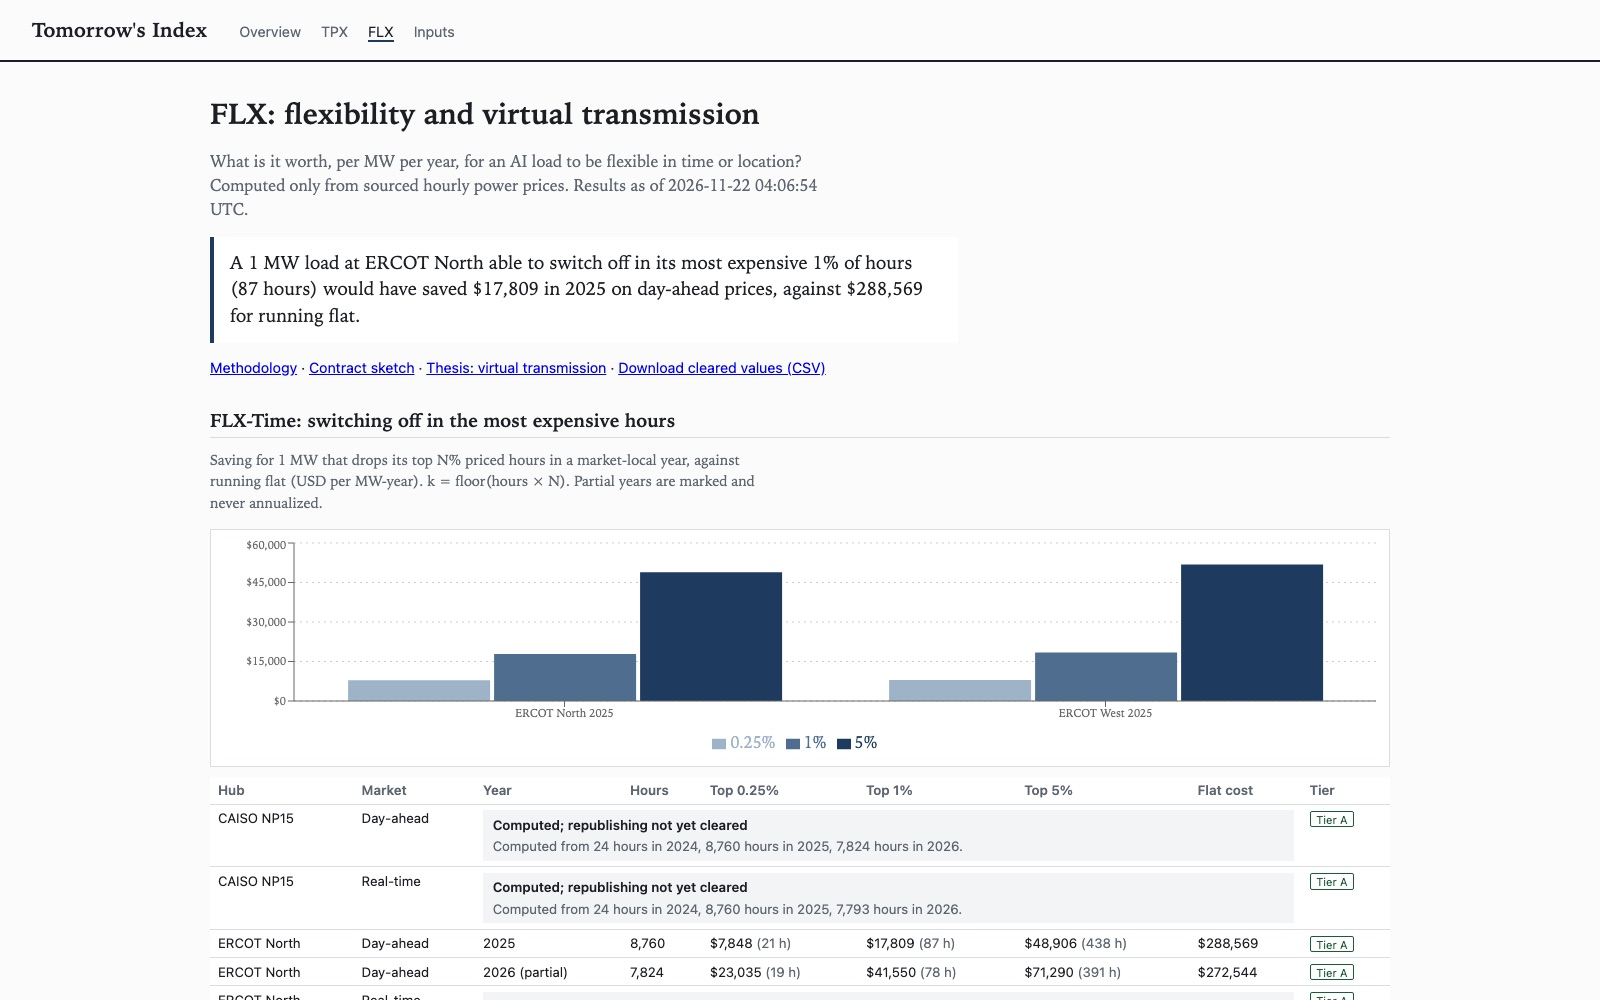
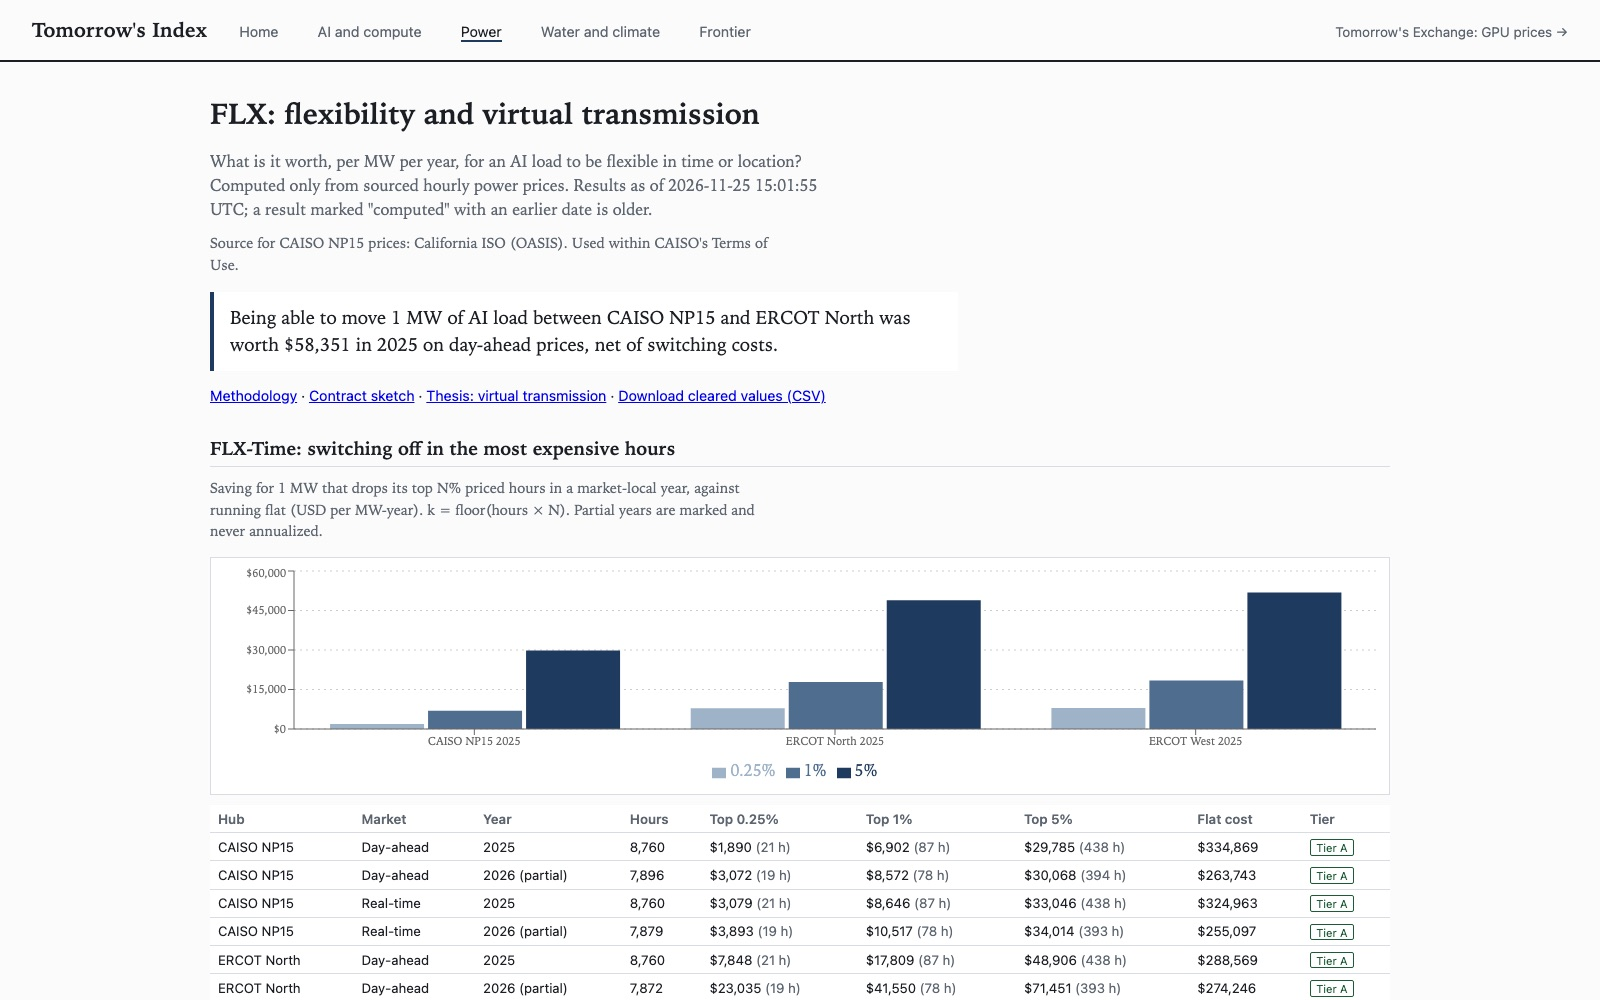
Portfolio: lead Tomorrow's Index with the $58,351 FLX headline
Section 06 now leads FLX with the CAISO vs ERCOT location value (2025,
day-ahead, net of switching costs), notes CAISO's written clearing for
derived statistics and the daily refresh, and drops the stale 'next'
line. FLX screenshot retaken from the live site.

diff --git a/work/tomorrows-exchange.html b/work/tomorrows-exchange.html
@@ -51,7 +51,7 @@
 <section class="psec rv"><div class="psec-cols"><div class="psec-text"><h2><i>03</i>Hedging both sides</h2><p><b>Buyer.</b> A lab planning a training run enters the model size, tokens, chip, GPU count and utilization. Training compute is six times parameters times tokens; dividing by what the chip actually delivers gives GPU-hours. A 70-billion-parameter model on 2 trillion tokens with 1,024 H100s is about 590,000 GPU-hours, $1.53 million at the forward curve. A cap at today's forward price costs about $88,000, under 6% of the run.</p><p><b>The first problem is quantity, not price.</b> Utilization is the weakest input: the same run costs $3.05 million at 20% and $1.02 million at 60%. Before hedging price, a buyer has to pin down how many GPU-hours they are hedging.</p><p><b>Seller.</b> A neocloud enters its fleet, utilization and how much is already contracted. Only the uncontracted hours are exposed. For 2,000 H100s with 60% contracted, a 30% price fall takes $4.4 million off a year's floating revenue; a floor 10% below the forward costs about $1.15 million and keeps the upside.</p><p><b>A detail that matters.</b> NVIDIA quotes Tensor Core throughput "with sparsity". The dense figure, which training actually reaches, is half. Using the headline number would understate every GPU-hour estimate by a factor of two. Every chip figure on the platform cites the NVIDIA datasheet it came from.</p></div><div class="figs"><figure class="fig rv"><button type="button" class="zoom" data-cap="Cost of one training run at three utilization assumptions, and the cost of capping the middle case." aria-label="Enlarge figure"><svg class="fg" viewBox="0 0 900 380" xmlns="http://www.w3.org/2000/svg" role="img" aria-label="One training run, three budgets" preserveAspectRatio="xMidYMid meet"><text class="mid" x="70.0" y="62.0">One training run, three budgets</text><text class="cl" x="70.0" y="133.2">20% utilization</text><rect class="bg" x="330.0" y="102.0" width="390.8" height="48"/><text class="cl v" x="734.8" y="133.2">$3.05M</text><text class="cl" x="70.0" y="195.2">40% utilization</text><rect class="bg" x="330.0" y="164.0" width="196.0" height="48"/><text class="cl v" x="540.0" y="195.2">$1.53M</text><text class="cl" x="70.0" y="257.2">60% utilization</text><rect class="bg" x="330.0" y="226.0" width="130.7" height="48"/><text class="cl v" x="474.7" y="257.2">$1.02M</text><text class="cl" x="70.0" y="319.2">Cap on the 40% case</text><rect class="ba" x="330.0" y="288.0" width="11.3" height="48"/><text class="cl v" x="355.3" y="319.2">$88k</text></svg></button><figcaption>Cost of one training run at three utilization assumptions, and the cost of capping the middle case.</figcaption></figure><figure class="fig wide rv shot"><a href="https://a-i-g-v-b-s-v.github.io/compute-markets-lab/" rel="noopener" aria-label="Open the platform"><img src="../assets/img/tomorrows-exchange/calculator.jpg" alt="The hedge calculator" loading="lazy" style="width:100%;height:auto;display:block;border-radius:10px;border:1px solid rgba(0,0,0,.08)"></a><figcaption>The calculator in buyer mode: the payoff of a forward and a cap against where prices settle.</figcaption></figure></div></div></section>
 <section class="psec rv"><div class="psec-cols"><div class="psec-text"><h2><i>04</i>Financing the hardware</h2><p><b>The lender's question.</b> Neoclouds finance GPU fleets with loans secured on the GPUs and repaid from renting them out. The model runs such a loan month by month: rental price, cash after operating costs, the loan payment, coverage, and the GPUs' value against the balance.</p><p><b>The event that breaks it.</b> When AWS launched B200 instances in May 2025, it cut its H100 prices 44% a month later. Put that step into a four-year, $28 million loan on 1,000 H100s and the loan breaches its loan-to-value covenant in the same month, while the borrower is still paying. A put floor on half the hours removes the cash shortfall, but not the covenant breach: the hedge has to be sized to the covenant, not only the cash.</p><p><b>What the data said.</b> I collected every dated list price I could find from archived pricing pages. They did not decay smoothly: Lambda's H100 went from $2.59 in 2023 to $4.59 today. Real declines come as discrete cuts. Meanwhile the largest owners depreciate GPUs over five to six years in their filings, while a new NVIDIA generation arrives about every two. That gap is the risk a lender is pricing.</p></div><div class="figs"><figure class="fig rv"><button type="button" class="zoom" data-cap="Month of the first covenant breach, by scenario, for a $28M loan on 1,000 H100s." aria-label="Enlarge figure"><svg class="fg" viewBox="0 0 900 380" xmlns="http://www.w3.org/2000/svg" role="img" aria-label="Months until the loan breaks its covenants" preserveAspectRatio="xMidYMid meet"><text class="mid" x="70.0" y="62.0">Months until the loan breaks its covenants</text><text class="cl" x="70.0" y="133.2">Base case: none in 48</text><rect class="bg" x="360.0" y="102.0" width="380.0" height="48"/><text class="cl v" x="754.0" y="133.2">no breach</text><text class="cl" x="70.0" y="195.2">Utilization −30%</text><rect class="bg" x="360.0" y="164.0" width="364.2" height="48"/><text class="cl v" x="738.2" y="195.2">month 46</text><text class="cl" x="70.0" y="257.2">Next generation (−44%)</text><rect class="ba" x="360.0" y="226.0" width="95.0" height="48"/><text class="cl v" x="469.0" y="257.2">month 12</text><text class="cl" x="70.0" y="319.2">Prices −30% at once</text><rect class="ba" x="360.0" y="288.0" width="7.9" height="48"/><text class="cl v" x="381.9" y="319.2">month 1</text></svg></button><figcaption>Month of the first covenant breach, by scenario, for a $28M loan on 1,000 H100s.</figcaption></figure><figure class="fig rv"><button type="button" class="zoom" data-cap="Lambda&#x27;s H100 on-demand list price from archived pricing pages, 2023 to 2026." aria-label="Enlarge figure"><svg class="fg" viewBox="0 0 900 430" xmlns="http://www.w3.org/2000/svg" role="img" aria-label="Lambda H100 list price, 2023 to 2026" preserveAspectRatio="xMidYMid meet"><text class="mid" x="70.0" y="62.0">List prices did not fall: Lambda H100, $/GPU-hour</text><line class="gl2" x1="120" y1="380.0" x2="860" y2="380.0"/><text class="ax" x="106" y="384.0" text-anchor="end">$0</text><line class="gl2" x1="120" y1="326.0" x2="860" y2="326.0"/><text class="ax" x="106" y="330.0" text-anchor="end">$1</text><line class="gl2" x1="120" y1="272.0" x2="860" y2="272.0"/><text class="ax" x="106" y="276.0" text-anchor="end">$2</text><line class="gl2" x1="120" y1="218.0" x2="860" y2="218.0"/><text class="ax" x="106" y="222.0" text-anchor="end">$3</text><line class="gl2" x1="120" y1="164.0" x2="860" y2="164.0"/><text class="ax" x="106" y="168.0" text-anchor="end">$4</text><line class="gl2" x1="120" y1="110.0" x2="860" y2="110.0"/><text class="ax" x="106" y="114.0" text-anchor="end">$5</text><text class="ax" x="260.0" y="406" text-anchor="middle">2024</text><text class="ax" x="460.0" y="406" text-anchor="middle">2025</text><text class="ax" x="660.0" y="406" text-anchor="middle">2026</text><path class="la" d="M143.3,250.4 L210.0,240.1 L260.0,240.1 L360.0,191.5 L393.3,218.5 L493.3,218.5 L626.7,218.5 L826.7,132.1"/><circle cx="143.3" cy="250.4" r="4" style="fill:var(--accent)"/><circle cx="210.0" cy="240.1" r="4" style="fill:var(--accent)"/><circle cx="260.0" cy="240.1" r="4" style="fill:var(--accent)"/><circle cx="360.0" cy="191.5" r="4" style="fill:var(--accent)"/><circle cx="393.3" cy="218.5" r="4" style="fill:var(--accent)"/><circle cx="493.3" cy="218.5" r="4" style="fill:var(--accent)"/><circle cx="626.7" cy="218.5" r="4" style="fill:var(--accent)"/><circle cx="826.7" cy="132.1" r="4" style="fill:var(--accent)"/><text class="mono" x="818.7" y="118.1" text-anchor="end">$4.59 today</text><text class="mono" x="210.0" y="266.1">$2.59, Oct 2023</text></svg></button><figcaption>Lambda&#x27;s H100 on-demand list price from archived pricing pages, 2023 to 2026.</figcaption></figure><figure class="fig wide rv shot"><a href="https://a-i-g-v-b-s-v.github.io/compute-markets-lab/" rel="noopener" aria-label="Open the platform"><img src="../assets/img/tomorrows-exchange/collateral.jpg" alt="The collateral model" loading="lazy" style="width:100%;height:auto;display:block;border-radius:10px;border:1px solid rgba(0,0,0,.08)"></a><figcaption>The collateral model: coverage by month under each stress, with and without a floor.</figcaption></figure></div></div></section>
 <section class="psec rv"><div class="psec-cols"><div class="psec-text"><h2><i>05</i>The next market: memory</h2><p><b>HBM has no price.</b> The memory stacked beside every accelerator is made by three companies and sold on negotiated multi-year contracts; SK hynix says its volumes are sold out through 2029, and prices are set once a year. There is no spot market to observe. That is a finding, not a gap.</p><p><b>DRAM does.</b> Commodity DRAM trades daily and competes with HBM for the same wafers. The platform sets out a DRAM spot index design, and the case for a memory hedge: memory is now about a third of a PC's cost and tied to billions of hyperscaler capex, and nobody hedges it financially yet.</p><p><b>Asked, not scraped.</b> The only free daily DRAM prices come from one source whose terms require written consent to publish. So the index design is public, and the permission request has gone first.</p></div><div class="figs"><figure class="fig rv"><button type="button" class="zoom" data-cap="Commodity DRAM has a daily spot price. HBM has none, anywhere public." aria-label="Enlarge figure"><svg class="fg" viewBox="0 0 900 380" xmlns="http://www.w3.org/2000/svg" role="img" aria-label="Which memory has a public price" preserveAspectRatio="xMidYMid meet"><text class="mid" x="70.0" y="62.0">Which memory has a public price</text><text class="cl" x="70.0" y="133.2">DDR5 16Gb</text><rect class="bg" x="300.0" y="102.0" width="440.0" height="48"/><text class="cl v" x="754.0" y="133.2">daily spot</text><text class="cl" x="70.0" y="195.2">DDR4 16Gb</text><rect class="bg" x="300.0" y="164.0" width="440.0" height="48"/><text class="cl v" x="754.0" y="195.2">daily spot</text><text class="cl" x="70.0" y="257.2">DDR4 8Gb</text><rect class="bg" x="300.0" y="226.0" width="440.0" height="48"/><text class="cl v" x="754.0" y="257.2">daily spot</text><text class="cl" x="70.0" y="319.2">HBM</text><rect class="ba" x="300.0" y="288.0" width="5.3" height="48"/><text class="cl v" x="319.3" y="319.2">none</text></svg></button><figcaption>Commodity DRAM has a daily spot price. HBM has none, anywhere public.</figcaption></figure></div></div></section>
-<section class="psec rv"><div class="psec-cols"><div class="psec-text"><h2><i>06</i>Part two: Tomorrow&#x27;s Index</h2><p><b>After compute, the bottlenecks.</b> GPUs now have a price. What limits the AI build-out next mostly does not: how long it takes to get power, what a flexible load is worth, what a grade of model intelligence costs. Tomorrow&#x27;s Index is a family of research benchmarks for those, built on the same rules as the exchange: every value sourced, timestamped and checked against its publisher&#x27;s terms.</p><p><b>FLX, flexibility.</b> What a megawatt of AI load saves by switching off in the most expensive hours, from hourly ERCOT prices. In 2025 a 1 MW load at ERCOT North that stopped for its priciest 87 hours would have saved $17,809, against $288,569 for running flat.</p><p><b>TPX, time to power.</b> Turbine deals, manufacturer backlogs and grid queues. Completed gas projects in PJM took a median 2.77 years from interconnection request to operation (373 projects, Berkeley Lab).</p><p><b>Only what may be published.</b> Results from grid operators whose terms don&#x27;t yet allow republishing are computed but withheld, and the page says so. Intelligence grades are next.</p><p style="margin-top:1rem"><a class="btn" href="https://a-i-g-v-b-s-v.github.io/compute-markets-lab/tmrw/" rel="noopener">Open Tomorrow&#x27;s Index ↗</a></p></div><div class="figs"><figure class="fig wide rv shot"><a href="https://a-i-g-v-b-s-v.github.io/compute-markets-lab/tmrw/#/flx" rel="noopener" aria-label="Open Tomorrow&#x27;s Index"><img src="../assets/img/tomorrows-exchange/index-flx.jpg" alt="The FLX page of Tomorrow&#x27;s Index" loading="lazy" style="width:100%;height:auto;display:block;border-radius:10px;border:1px solid rgba(0,0,0,.08)"></a><figcaption>FLX: the saving from switching off in the most expensive hours, by hub and year.</figcaption></figure><figure class="fig wide rv shot"><a href="https://a-i-g-v-b-s-v.github.io/compute-markets-lab/tmrw/#/tpx" rel="noopener" aria-label="Open Tomorrow&#x27;s Index"><img src="../assets/img/tomorrows-exchange/index-tpx.jpg" alt="The TPX page of Tomorrow&#x27;s Index" loading="lazy" style="width:100%;height:auto;display:block;border-radius:10px;border:1px solid rgba(0,0,0,.08)"></a><figcaption>TPX: every disclosed turbine deal, with its source and confidence tier.</figcaption></figure></div></div></section><section class="psec psec-solo rv"><div class="psec-cols"><div class="psec-text"><h2><i>07</i>How I built it</h2><ul><li><b>Collector.</b> Python, run by GitHub Actions about every 30 minutes. Each source is a small module that turns a provider's format into the same quote record. AWS publishes a 300 MB price file per region, so the collector checks a 19 KB index and downloads a file only when AWS publishes a new version.</li><li><b>Data in the open.</b> Every quote, eligible or not, is committed to the repository with its source and read time. The index is rebuilt from those files every run, so anyone can reproduce any number.</li><li><b>Finance library.</b> Black-76, forward-curve interpolation, monthly hedge strips and the loan model live in one Python package with 105 tests, including a textbook option value, put-call parity and a standard annuity value.</li><li><b>Platform.</b> React and TypeScript, deployed to GitHub Pages. The browser runs a port of the Python math, and the tests check it against values the Python code generates, so the two cannot drift apart. Pages read the data straight from the repository and re-check every minute.</li><li><b>Problems the checks caught.</b> An Azure price list labelled Windows as “Win”, which would have counted Windows prices as Linux. A modelling choice that charged four years of hedge premium in one month. And GitHub's scheduler running only 2 of 18 hourly collections, fixed by moving to quieter minutes.</li></ul><p>Code, data and methodology are public: <a href="https://github.com/a-i-g-v-b-s-v/compute-markets-lab" rel="noopener">the repository</a>.</p></div></div></section>
+<section class="psec rv"><div class="psec-cols"><div class="psec-text"><h2><i>06</i>Part two: Tomorrow&#x27;s Index</h2><p><b>After compute, the bottlenecks.</b> GPUs now have a price. What limits the AI build-out next mostly does not: how long it takes to get power, what a flexible load is worth, what a grade of model intelligence costs. Tomorrow&#x27;s Index is a family of research benchmarks for those, built on the same rules as the exchange: every value sourced, timestamped and checked against its publisher&#x27;s terms.</p><p><b>FLX, flexibility.</b> What it is worth for AI load to move between places or hours, from hourly power prices. Being able to move 1 MW of AI load between California (CAISO NP15) and Texas (ERCOT North) was worth <b>$58,351</b> in 2025 on day-ahead prices, net of switching costs: $230,220 for the year against $288,571 at the cheaper hub alone, in 625 moves. Switching off in only the priciest 87 hours at ERCOT North would have saved $17,809.</p><p><b>TPX, time to power.</b> Turbine deals, manufacturer backlogs and grid queues. Completed gas projects in PJM took a median 2.77 years from interconnection request to operation (373 projects, Berkeley Lab).</p><p><b>Only what may be published.</b> CAISO cleared publishing statistics derived from its prices, in writing and with credit; its raw prices stay private. Results from grid operators that have not cleared publishing are computed but withheld, and the page says so. The data refreshes daily.</p><p style="margin-top:1rem"><a class="btn" href="https://a-i-g-v-b-s-v.github.io/compute-markets-lab/tmrw/" rel="noopener">Open Tomorrow&#x27;s Index ↗</a></p></div><div class="figs"><figure class="fig wide rv shot"><a href="https://a-i-g-v-b-s-v.github.io/compute-markets-lab/tmrw/#/flx" rel="noopener" aria-label="Open Tomorrow&#x27;s Index"><img src="../assets/img/tomorrows-exchange/index-flx.jpg?v=2" alt="The FLX page of Tomorrow&#x27;s Index" loading="lazy" style="width:100%;height:auto;display:block;border-radius:10px;border:1px solid rgba(0,0,0,.08)"></a><figcaption>FLX: what moving 1 MW between CAISO and ERCOT was worth in 2025, and the saving from switching off in the priciest hours, by hub.</figcaption></figure><figure class="fig wide rv shot"><a href="https://a-i-g-v-b-s-v.github.io/compute-markets-lab/tmrw/#/tpx" rel="noopener" aria-label="Open Tomorrow&#x27;s Index"><img src="../assets/img/tomorrows-exchange/index-tpx.jpg" alt="The TPX page of Tomorrow&#x27;s Index" loading="lazy" style="width:100%;height:auto;display:block;border-radius:10px;border:1px solid rgba(0,0,0,.08)"></a><figcaption>TPX: every disclosed turbine deal, with its source and confidence tier.</figcaption></figure></div></div></section><section class="psec psec-solo rv"><div class="psec-cols"><div class="psec-text"><h2><i>07</i>How I built it</h2><ul><li><b>Collector.</b> Python, run by GitHub Actions about every 30 minutes. Each source is a small module that turns a provider's format into the same quote record. AWS publishes a 300 MB price file per region, so the collector checks a 19 KB index and downloads a file only when AWS publishes a new version.</li><li><b>Data in the open.</b> Every quote, eligible or not, is committed to the repository with its source and read time. The index is rebuilt from those files every run, so anyone can reproduce any number.</li><li><b>Finance library.</b> Black-76, forward-curve interpolation, monthly hedge strips and the loan model live in one Python package with 105 tests, including a textbook option value, put-call parity and a standard annuity value.</li><li><b>Platform.</b> React and TypeScript, deployed to GitHub Pages. The browser runs a port of the Python math, and the tests check it against values the Python code generates, so the two cannot drift apart. Pages read the data straight from the repository and re-check every minute.</li><li><b>Problems the checks caught.</b> An Azure price list labelled Windows as “Win”, which would have counted Windows prices as Linux. A modelling choice that charged four years of hedge premium in one month. And GitHub's scheduler running only 2 of 18 hourly collections, fixed by moving to quieter minutes.</li></ul><p>Code, data and methodology are public: <a href="https://github.com/a-i-g-v-b-s-v/compute-markets-lab" rel="noopener">the repository</a>.</p></div></div></section>
 <section class="psec psec-solo rv"><div class="psec-cols"><div class="psec-text"><h2><i>08</i>Limits</h2><ul><li>These are list prices: what providers ask, not what anyone paid. Negotiated and reserved deals are mostly unpublished.</li><li>Seven providers, unweighted. The largest marketplaces are excluded until they grant permission.</li><li>History starts on 21 November 2026; changes over a day, week or month appear as the data accumulates.</li><li>Forward curves, volatility, operating costs and loan terms are inputs, labelled as such where no public source exists.</li><li>Not a benchmark, not advice, and not for settling contracts.</li></ul><p style="margin-top:1.6rem"><a class="btn" href="https://a-i-g-v-b-s-v.github.io/compute-markets-lab/" rel="noopener">Open Tomorrow's Exchange ↗</a></p></div></div></section>
     </div>
     <nav class="pn" aria-label="More projects">
